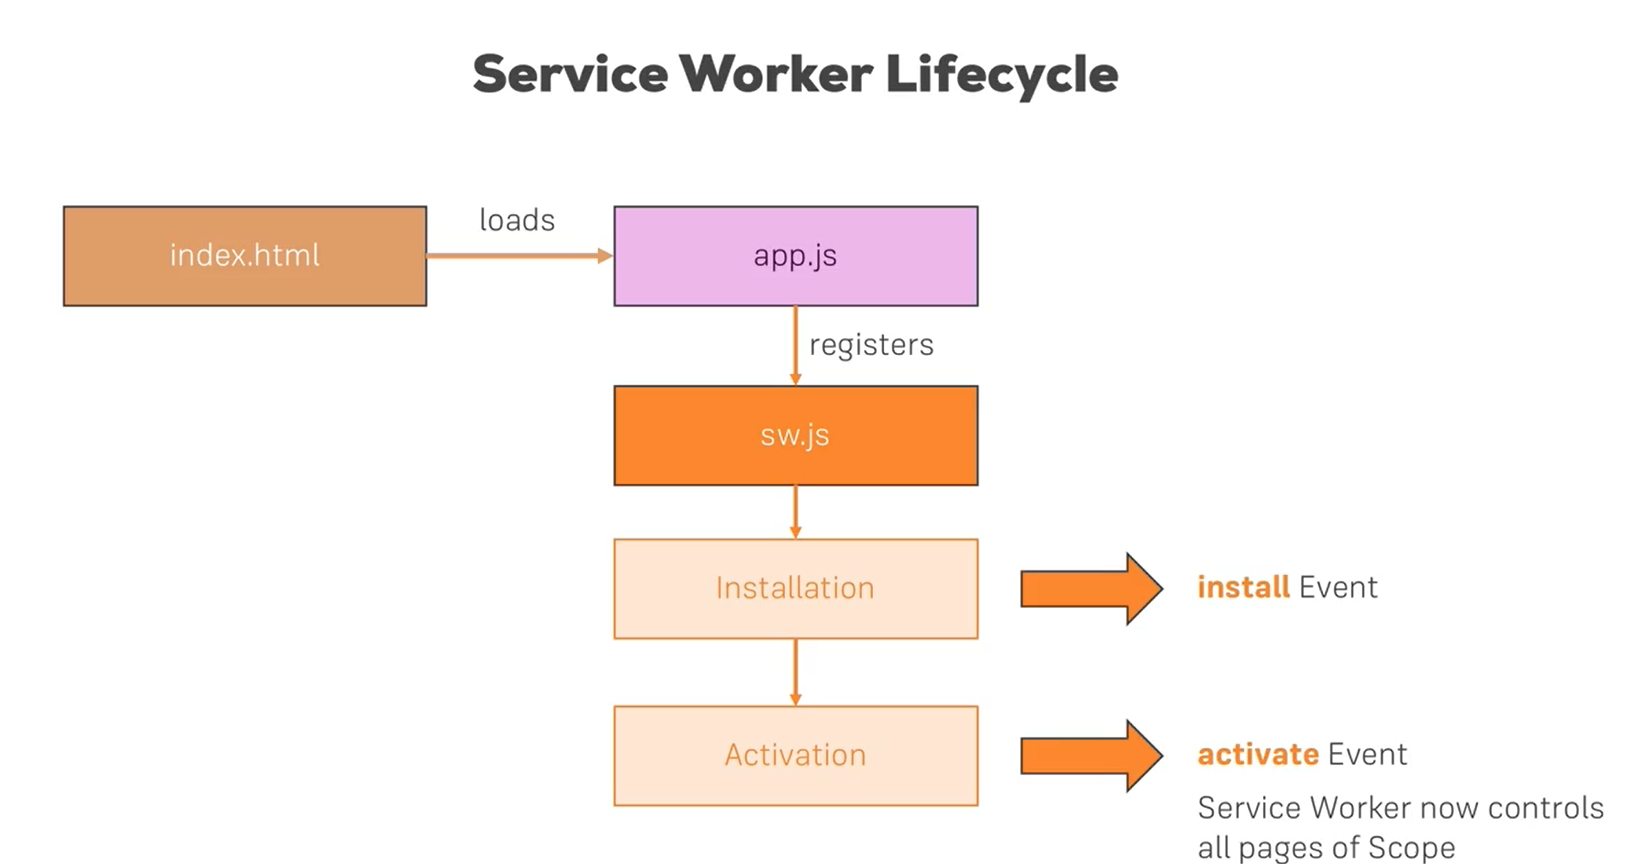
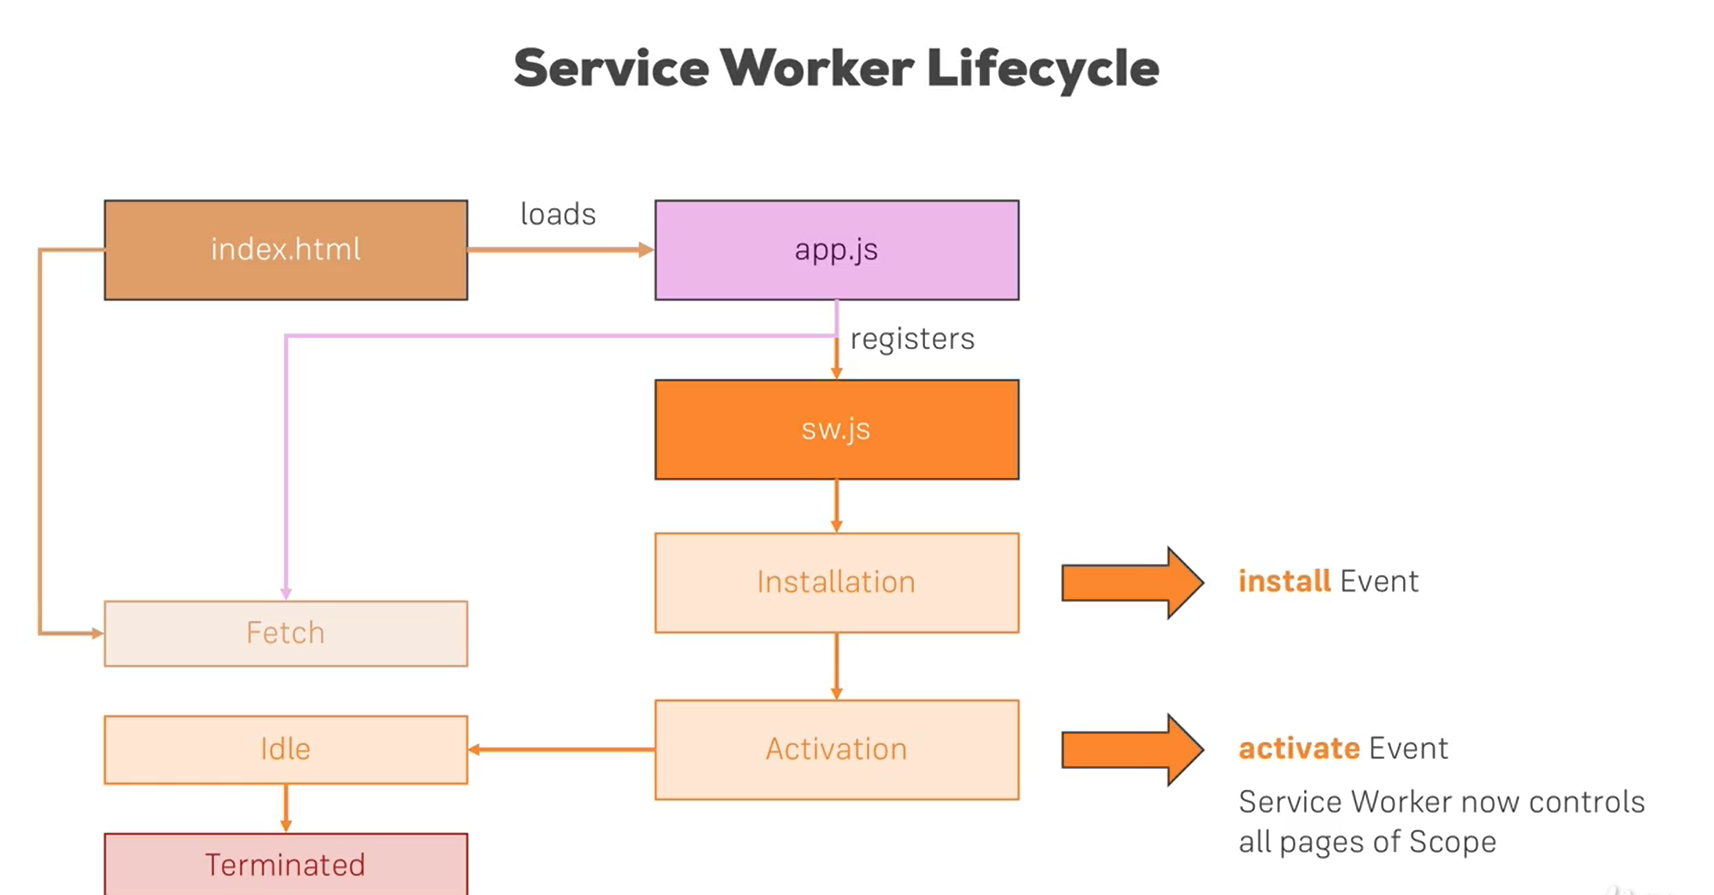
sw register

Changed region(s): [[0.0, 0.2188, 0.964, 1.0], [0.2799, 0.0312, 0.6841, 0.125]]

diff --git a/course-project/public/src/js/app.js b/course-project/public/src/js/app.js
@@ -1,0 +1,7 @@
+if ("serviceWorker" in navigator) {
+    navigator.serviceWorker
+    .register('/sw.js')
+    .then(function() {
+        console.log('Sw registered');
+    });
+}
